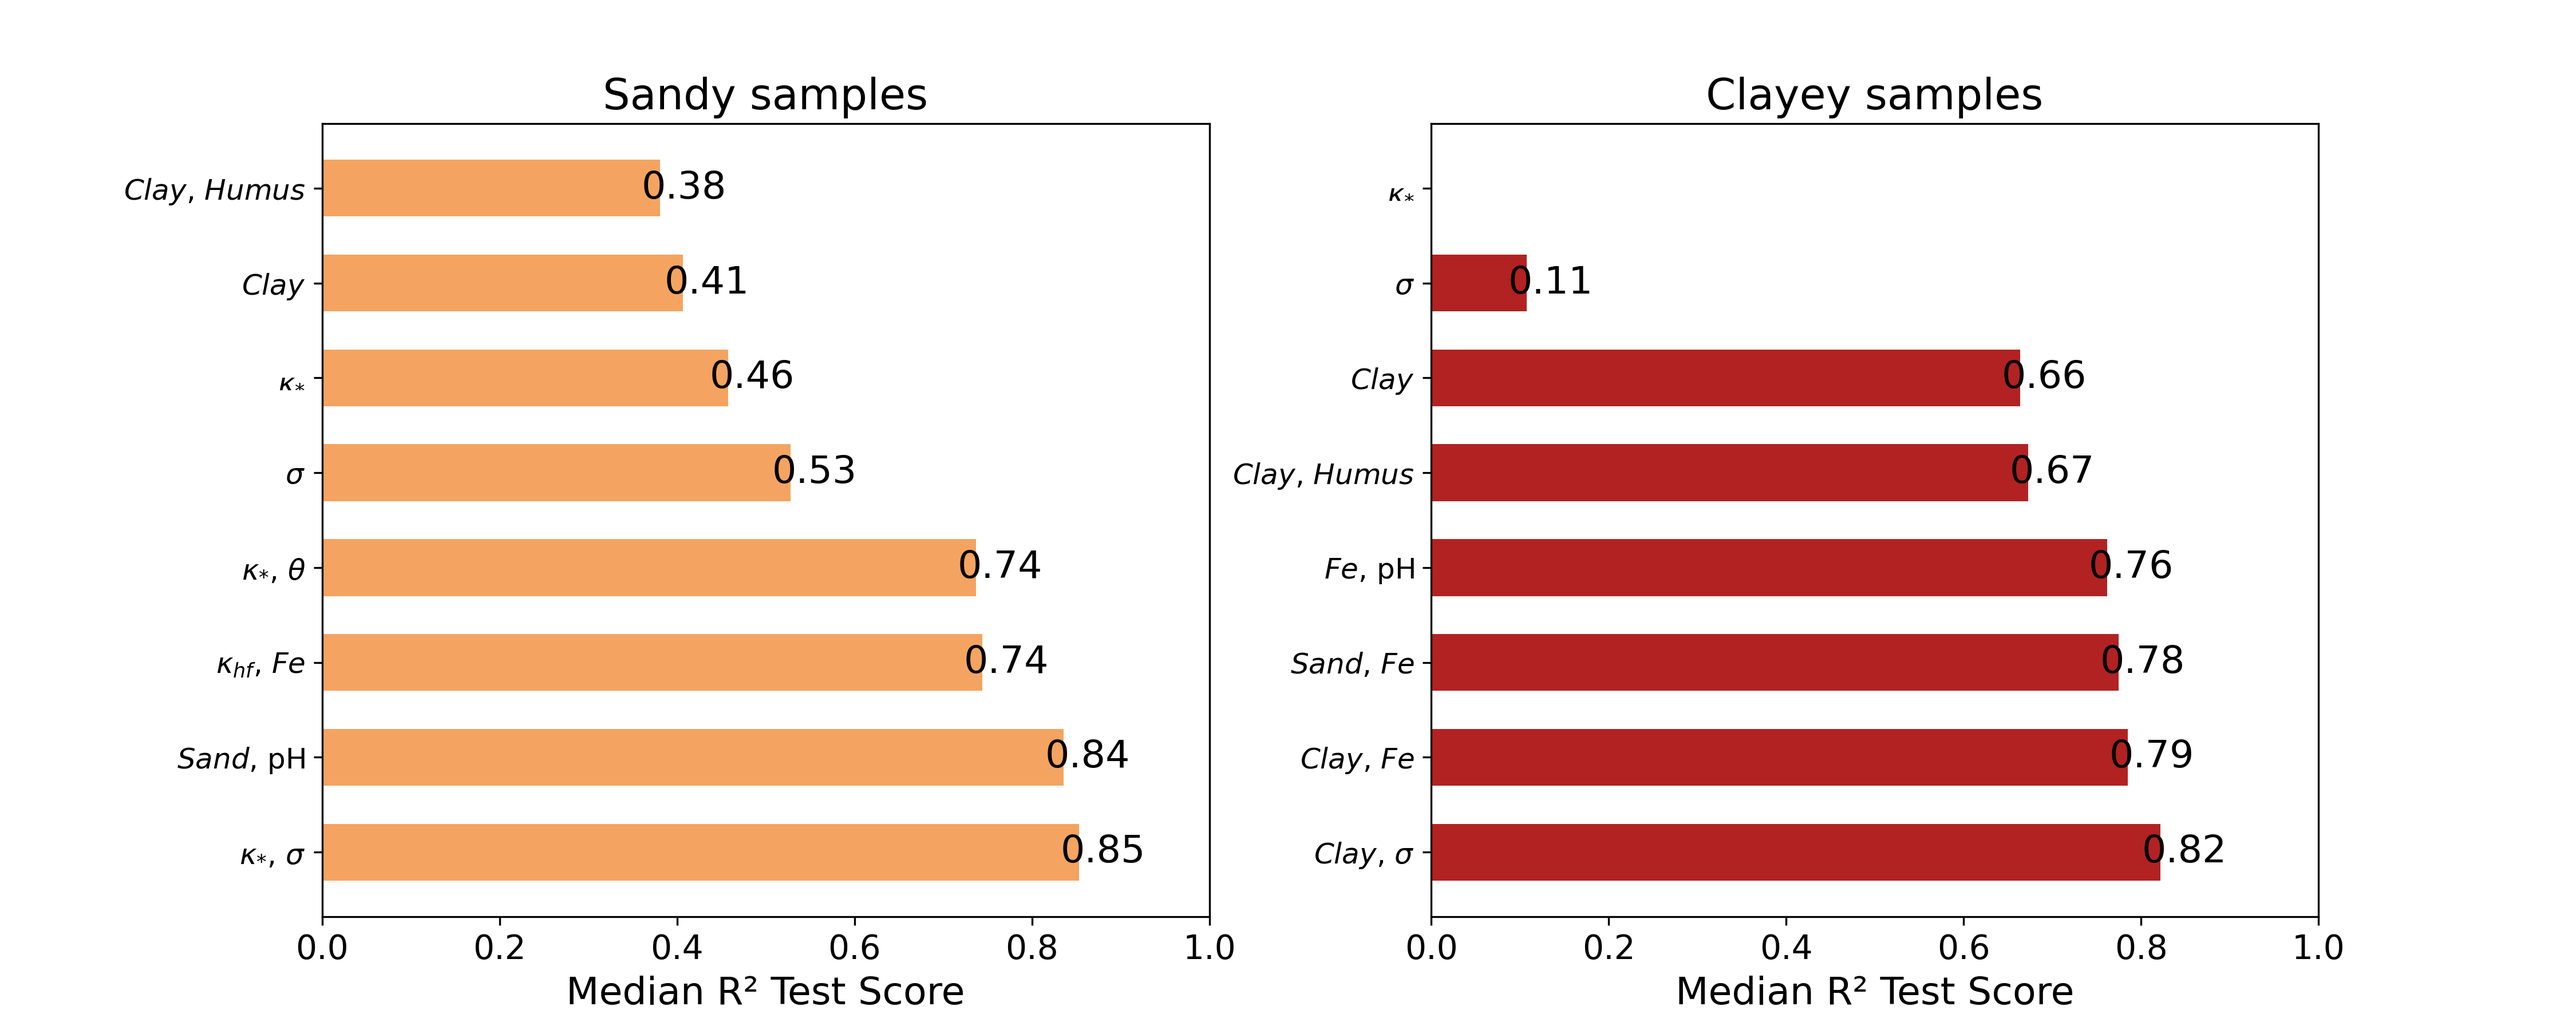
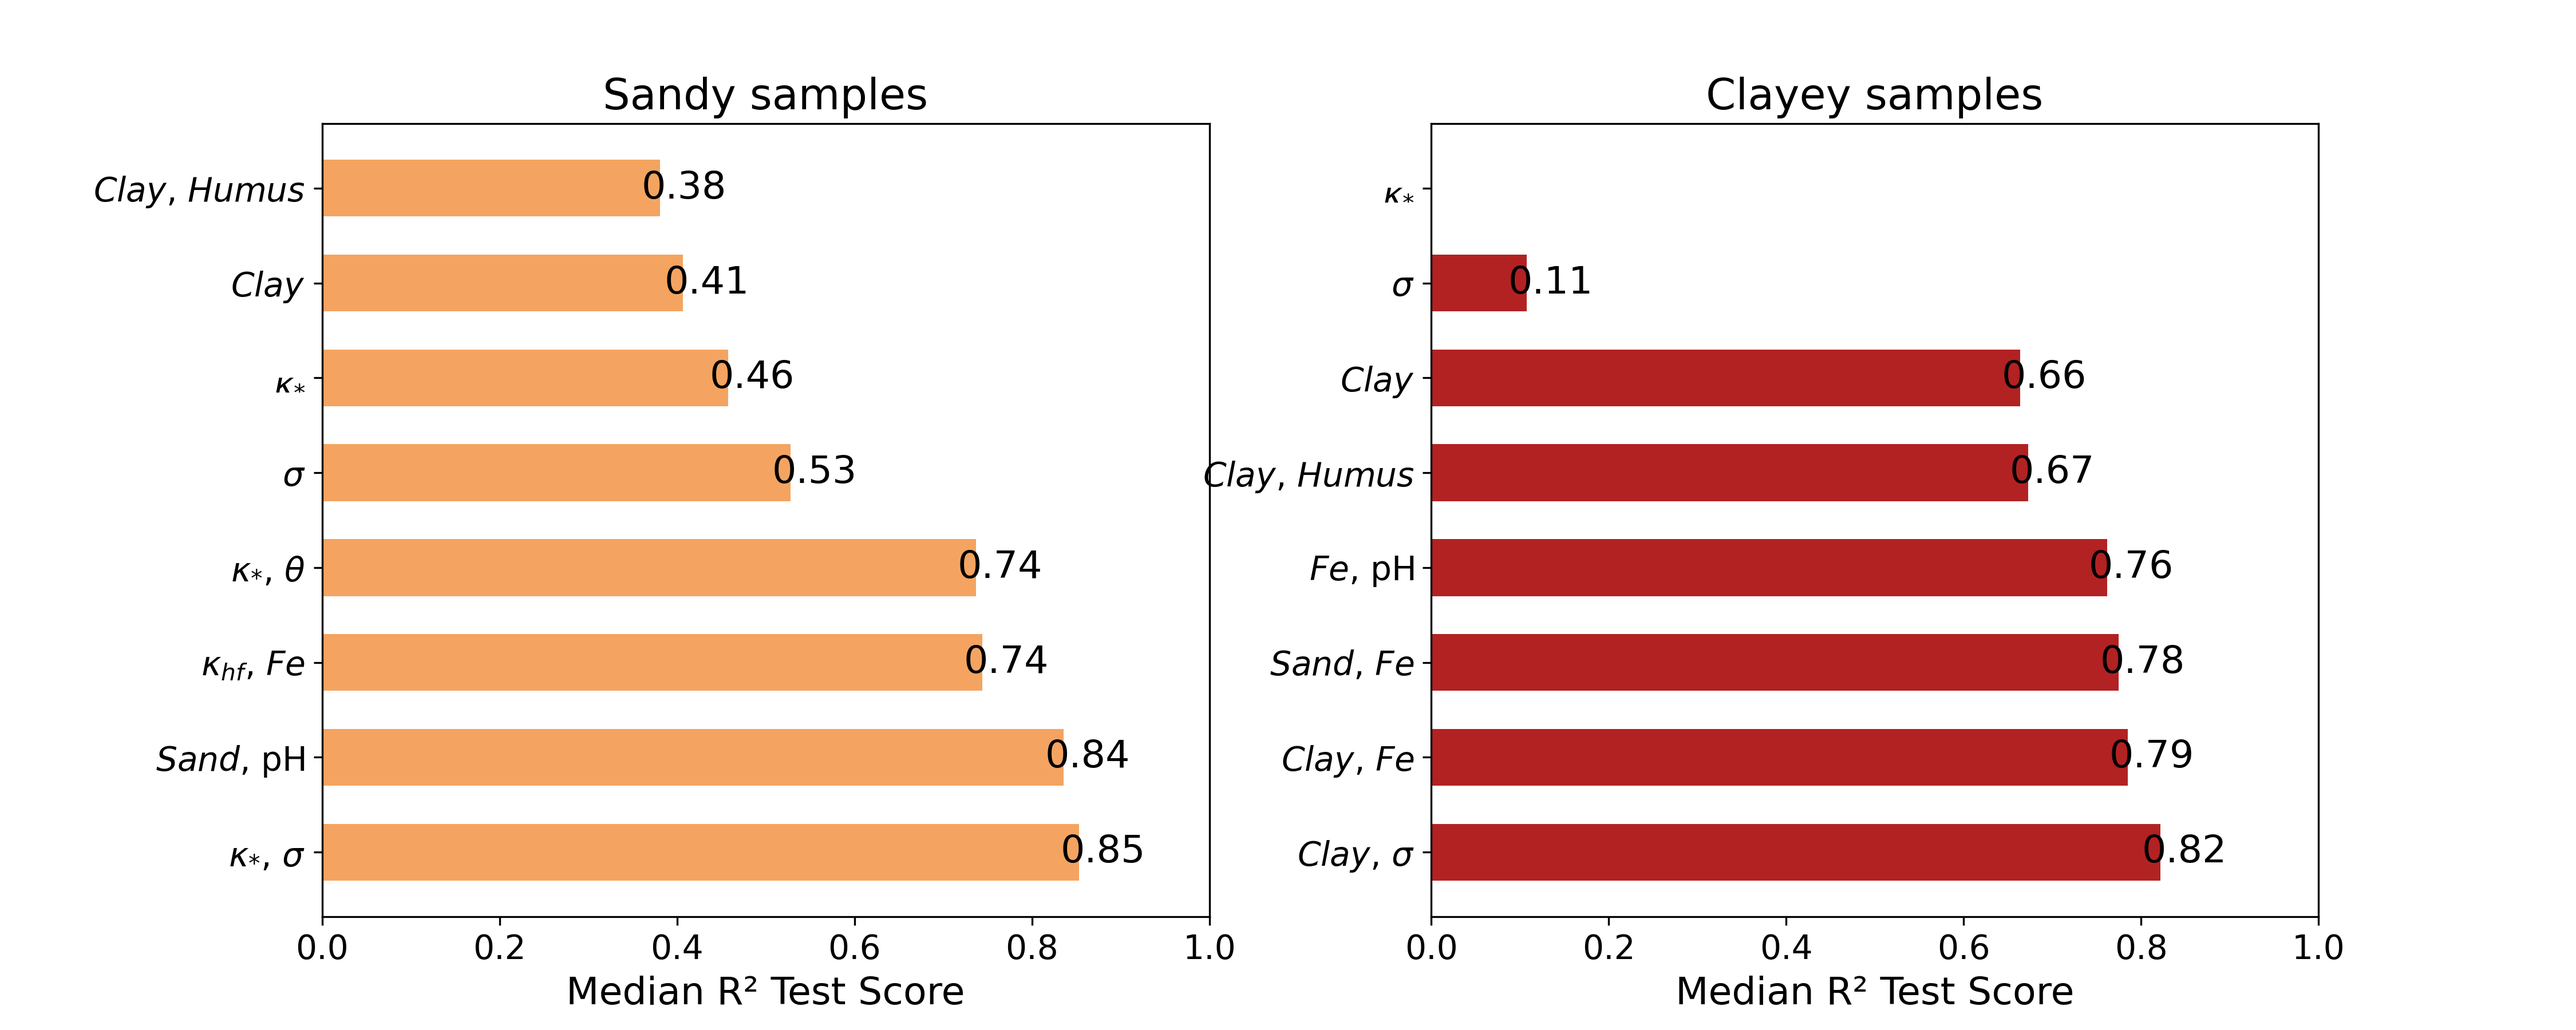
added req

diff --git a/plots.py b/plots.py
@@ -108,7 +108,7 @@ def plot_feature_importance(ax, y_positions, scores, labels, title, color, xlabe
     ax.set_xlabel(xlabel, fontsize=16)
     ax.set_title(title, fontsize=18)
     ax.set_yticks(y_positions)
-    ax.set_yticklabels(labels, fontsize=12)
+    ax.set_yticklabels(labels, fontsize=14)
     ax.set_xlim(0, 1)
     ax.tick_params(axis='x', labelsize=labelsize)
     

diff --git a/README.md b/README.md
@@ -1,3 +1,49 @@
 # kappa-CEC
 
-![Alt text](./figures_output/barplot.png)
+[![Binder](https://mybinder.org/badge_logo.svg)](https://mybinder.org/v2/gh/SENSE-UGent/kappa-CEC/HEAD?filepath=CEC-PTF.ipynb)
+
+![Overview bar plot](./figures_output/barplot.png)
+
+Repository accompanying the paper  
+“Exploring the link between cation exchange capacity and magnetic susceptibility”  
+DOI: https://doi.org/10.5194/egusphere-2024-3306  
+
+---
+
+### Quick start
+
+Clone, create a fresh virtual environment, install the dependencies and open the notebook:
+
+```bash
+git clone https://github.com/SENSE-UGent/kappa-CEC.git
+cd kappa-CEC
+python -m venv .venv && source .venv/bin/activate        # Windows: .venv\Scripts\activate
+pip install -r requirements.txt
+jupyter lab CEC-PTF.ipynb
+
+
+Running every cell reproduces all figures in figures_output/ and tables in table_outputs/.
+
+Repository layout
+Path	Role
+data/	small raw and processed datasets
+figures_output/	figures generated by the notebook
+table_outputs/	CSV / LaTeX tables for the manuscript
+CEC-PTF.ipynb	main exploratory & modelling workflow
+utils.py	helper functions (metrics, regressions)
+plots.py	plot-specific helpers
+Citing this work
+If you build on this code or data, please cite the paper above.
+BibTeX stub:
+
+bibtex
+
+@article{YourKey2025,
+  title        = {Exploring the link between cation exchange capacity and magnetic susceptibility},
+  author       = {Your, A. and Coauthors, B.},
+  journal      = {EGU Sphere},
+  year         = {2025},
+  doi          = {10.5194/egusphere-2024-3306}
+}
+License
+MIT – see LICENSE.
